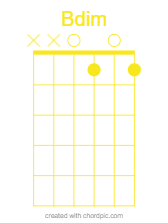
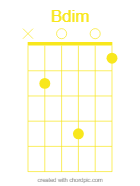
Corrected fingerings for the dim chords

diff --git a/main.py b/main.py
@@ -2,6 +2,7 @@
 
 import customtkinter as ctk
 import os
+import sys
 from PIL import Image
 from music_logic import get_scale, MAJOR_DEGREES, MAJOR_QUALITIES, MINOR_DEGREES, MINOR_QUALITIES
 
@@ -10,8 +11,11 @@ class GuitarChordApp(ctk.CTk):
     def __init__(self):
         super().__init__()
 
-        base_dir = os.path.dirname(os.path.abspath(__file__))
-        self.assets_path = os.path.join(base_dir, "assets", "chords")
+        if hasattr(sys, '_MEIPASS'):
+            self.base_dir = sys._MEIPASS
+        else:
+            self.base_dir = os.path.dirname(os.path.abspath(__file__))
+        self.assets_path = os.path.join(self.base_dir, "assets", "chords")
         fallback_path = os.path.join(self.assets_path, "image_coming_soon.png")
         fallback_data = Image.open(fallback_path)
         self.fallback_image = ctk.CTkImage(light_image=fallback_data, dark_image=fallback_data, size=(160, 200))

diff --git a/README.md b/README.md
@@ -1,8 +1,8 @@
-# 🎸 Guitar Chords & Scales  App
+# 🎸 Guitar Chords & Scales App
 
 A desktop application built with Python and CustomTkinter that helps guitarists visualize musical scales and their corresponding chord shapes across any key.
 
-![App Screenshot](https://via.placeholder.com)
+![App Screenshot](screenshots/app_preview.png)
 
 ## 🌟 Key Features
 
